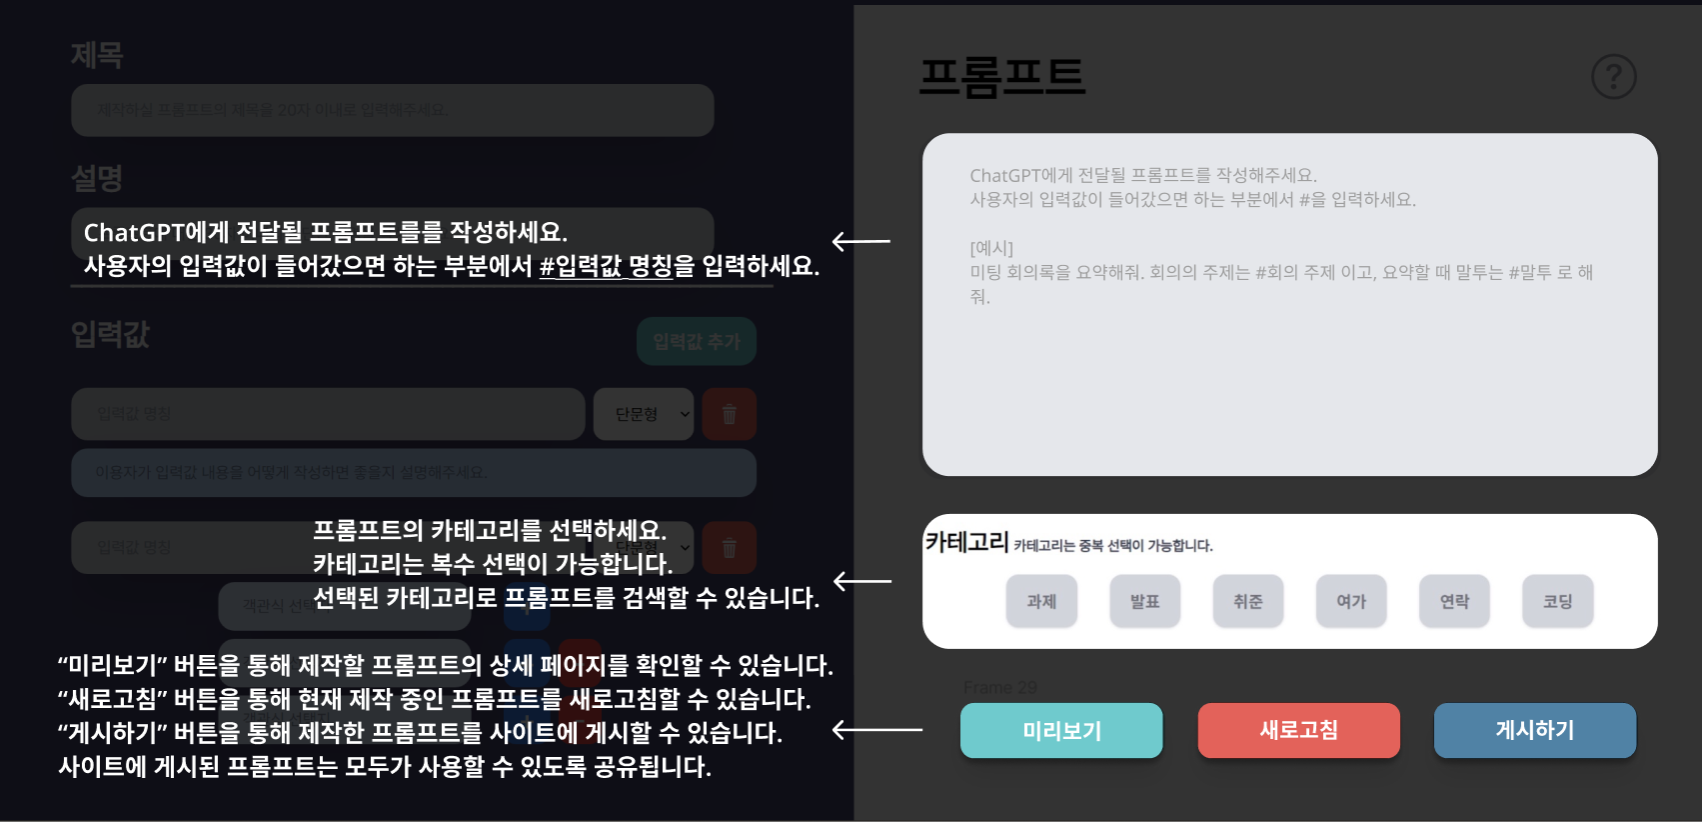
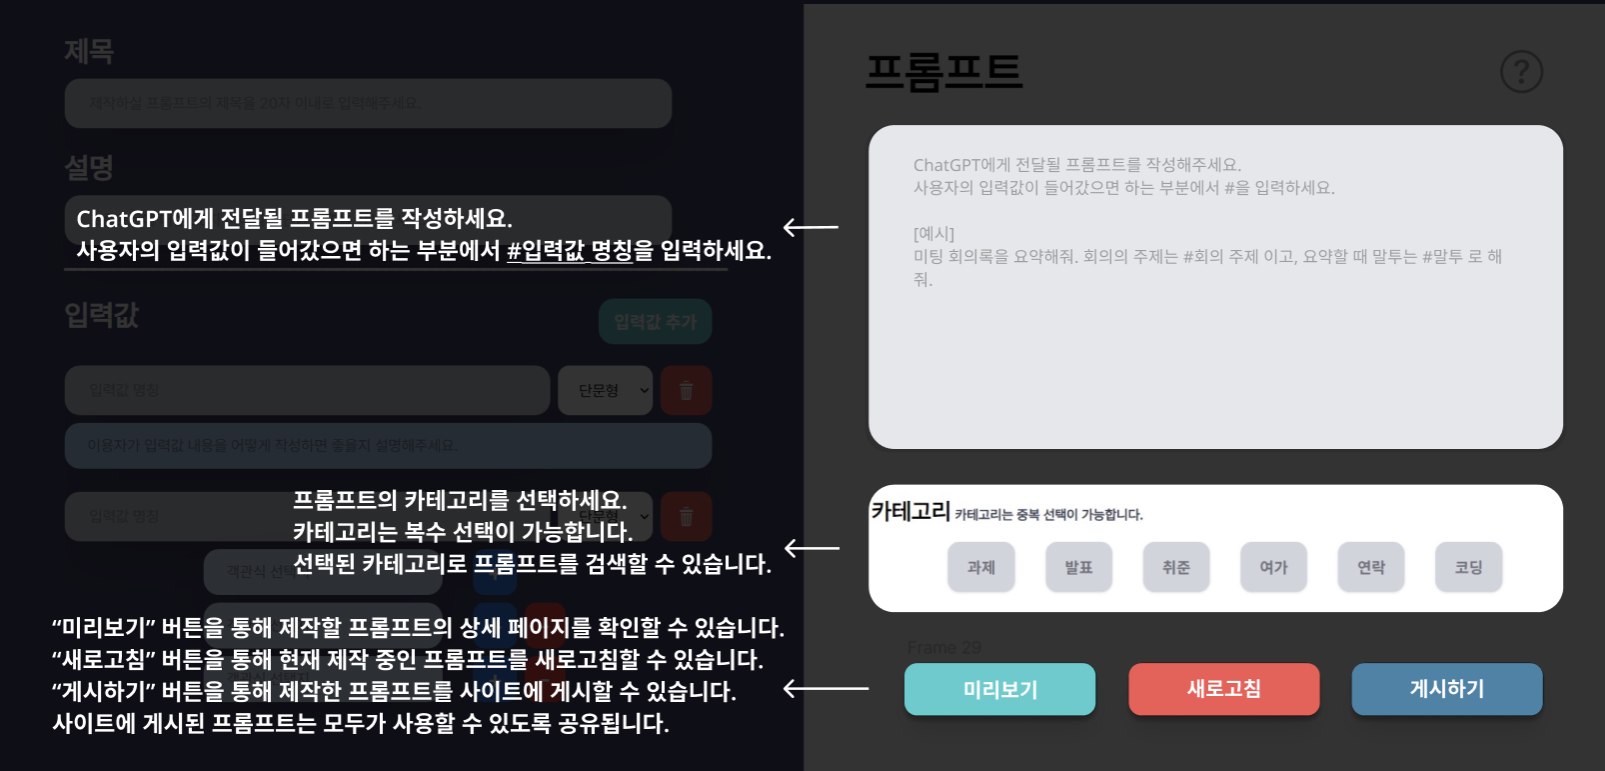
fix: overall css (3)

diff --git a/src/routes/PromptDetailPage.jsx b/src/routes/PromptDetailPage.jsx
@@ -168,14 +168,14 @@ const PromptDetailPage = () => {
       </div>
       {/*PromptResult 모달*/}
       {resultPage ? (
-        <div className="flex-grow flex flex-col justify-center items-center h-4/5 w-2/3 bg-gray-200 text-black mx-20 mt-6 rounded-3xl">
+        <div className="flex-grow flex flex-col justify-center items-center h-4/5 w-2/3 bg-gray-200 text-black mx-20 mt-8 rounded-3xl">
           {/*질문답변*/}
-          <div className="rounded-3xl bg-gray-200 px-8 pb-5 mr-8 mx-6 h-4/5 w-5/6 ">
+          <div className="rounded-3xl bg-gray-200 px-8 pb-3 mr-8 mx-6 h-4/5 w-5/6 ">
             {/*프롬프트 통한 질문*/}
             <div className="flex justify-center items-center mt-2 w-full h-1/3">
               <div className="flex justify-start w-full h-full">
                 <div className="flex bubble-a section-a items-center overflow-y-auto overflow-x-hidden w-3/4 h-1/3">
-                  <div className="inline-block align-middle whitespace-pre-line !my-auto p-4 pl-8">
+                  <div className="inline-block align-middle whitespace-pre-line font-notosanskr !my-auto p-4 pl-12">
                     {message}
                   </div>
                 </div>
@@ -190,8 +190,8 @@ const PromptDetailPage = () => {
             </div>
 
             {/*GPT 답변*/}
-            <div className="flex justify-center items-center mt-6 w-full h-1/2">
-              <div className="flex justify-start mt-2 w-full h-full">
+            <div className="flex justify-center items-center mt-5 w-full h-1/2">
+              <div className="flex justify-start w-full h-full">
                 <div className="flex flex-col justify-center items-center w-1/4 h-auto">
                   <img
                     id="gpt-logo"
@@ -202,7 +202,7 @@ const PromptDetailPage = () => {
                 </div>
                 <div className="bubble-b-after mt-28"></div>
                 <div className="flex bubble-b section-a items-center overflow-y-auto overflow-x-hidden w-full h-2/3 ">
-                  <div className="font-medium p-6 pl-8 inline-block align-middle whitespace-pre-line !my-auto">
+                  <div className="font-medium p-6 pl-12 font-notosanskr inline-block align-middle whitespace-pre-line !my-auto">
                     {answer}
                   </div>
                 </div>
@@ -217,7 +217,7 @@ const PromptDetailPage = () => {
               setResultPage(false);
               // console.log(resultPage);
             }}
-            className=" bg-gpt-green text-white font-bold hover:text-black rounded-3xl text-lg py-3.5 px-20 
+            className=" bg-gpt-green text-white font-bold hover:text-black rounded-3xl text-lg py-3.5 px-20 !mb-2
              shadow-xl"
           >
             나가기
@@ -252,7 +252,7 @@ const PromptDetailPage = () => {
                   // 객관식
                   return (
                     <div key={index}>
-                      <div className="button-f">{item.name}</div>
+                      <div className="button-f mb-1">{item.name}</div>
                       <Select
                         key={index}
                         options={options}

diff --git a/src/routes/HomePage.jsx b/src/routes/HomePage.jsx
@@ -200,11 +200,11 @@ const HomePage = () => {
         <HomeSideBar key={profile.id} user={profile} prompt={smallPromptList} />
       </div>
 
-      <div className="w-full bg-white text-black py-16 px-2 rounded-lg min-h-[700px] ">
-        <div className="flex flex-row justify-evenly space-x-8 pt-5 pb-7">
+      <div className="w-full bg-white text-black pt-8 pb-4 px-2 mx-2 rounded-lg min-h-[700px] ">
+        <div className="flex flex-row justify-center space-x-16 pt-14 pb-6">
           <Select
             options={categoryList}
-            className="w-5/12"
+            className="w-4/12 border-2 border-slate-300 rounded-md"
             onChange={handleCategoryChange}
             defaultValue={defaultValue}
           />
@@ -212,7 +212,7 @@ const HomePage = () => {
             type="text"
             placeholder="검색어를 입력해주세요"
             onChange={handleChange}
-            className="w-4/12 h-11 rounded-full border bg-slate-200 pl-5 mr-4"
+            className="w-5/12 h-10 rounded-full border bg-slate-200 pl-7 mr-6"
             value={searchValue}
           />
 
@@ -223,8 +223,8 @@ const HomePage = () => {
           </div> */}
         </div>
         <div className="flex flex-col items-center w-full h-3/4">
-          <div className="rounded-3xl border-solid border-gpt-blue border-2 m-5 px-5 pb-12 min-h-[500px] self-center">
-            <div className="flex flex-row min-w-full justify-between mt-5 p-5">
+          <div className="w-5/6 rounded-3xl border-solid border-gpt-blue border-2 m-5 px-5 pb-12 min-h-[500px] self-center">
+            <div className="flex flex-row w-8/10 justify-between mt-5 p-5">
               <div className="rounded-xl p-3.5 text-center font-bold text-xl text-white bg-gpt-blue px-14">
                 프롬프트 목록
               </div>

diff --git a/src/routes/InfoEditPage.jsx b/src/routes/InfoEditPage.jsx
@@ -60,10 +60,10 @@ const InfoEditPage = () => {
   return (
     <div className="flex flex-col items-center h-screen w-1/2">
       <br></br>
+
+      <h3 className="font-semibold text-5xl">비밀번호 변경</h3>
       <br></br>
-      <h3 className="font-semibold text-5xl">회원정보 수정</h3>
-      <br></br>
-      {/*일단은 사이즈 보려고 이미지로 넣어놨으! 근데 사람 이름 이니셜로 아이콘 만드는 법 못 찾으면 계속 이미지 써야할지도ㅠㅠ*/}
+
       <Avatar
         color={colors[formData.username.length % colors.length]}
         name={formData.username}
@@ -71,7 +71,6 @@ const InfoEditPage = () => {
         size={130}
       />
       <form className="form-a" onSubmit={handleChangeInfoSubmit}>
-        {/*이메일은 수정 안되게 바꿔야*/}
         <label className="label font-bold text-l" htmlFor="email">
           이메일
         </label>
@@ -96,7 +95,7 @@ const InfoEditPage = () => {
           readOnly
         />
         <label htmlFor="password" className="label font-bold text-l">
-          {/*API 등등 다시 다 고쳐야!*/}새 비밀번호
+          새 비밀번호
         </label>
         <input
           required
@@ -137,14 +136,14 @@ const InfoEditPage = () => {
         <div className="flex flex-row items-center space-x-14">
           <button
             type="submit"
-            className="button-a-4 mt-7"
+            className="button-a-4 !mt-2 !px-4"
             onClick={handleChangeInfoSubmit}
           >
             저장하기
           </button>
           <button
             type="button"
-            className="button-a-4 mt-7"
+            className="button-a-4 !mt-2 !px-4"
             onClick={navigateMypage}
           >
             취소하기

diff --git a/src/components/Modal/index.jsx b/src/components/Modal/index.jsx
@@ -98,7 +98,7 @@ export const PromptMakeModal = ({ modalOpen, setModalOpen, prompt, user }) => {
               <div className="flex justify-center items-center mt-2 w-full h-1/3">
                 <div className="flex justify-start w-full h-full">
                   <div className="flex bubble-a section-a items-center overflow-y-auto overflow-x-hidden w-3/4 h-1/3">
-                    <div className="inline-block align-middle whitespace-pre-line !my-auto p-4 pl-8">
+                    <div className="inline-block align-middle whitespace-pre-line !my-auto p-4 pl-12 font-notosanskr">
                       {message}
                     </div>
                   </div>
@@ -125,7 +125,7 @@ export const PromptMakeModal = ({ modalOpen, setModalOpen, prompt, user }) => {
                   </div>
                   <div className="bubble-b-after mt-28"></div>
                   <div className="flex bubble-b section-a items-center overflow-y-auto overflow-x-hidden w-full">
-                    <div className="font-medium p-6 pl-8 inline-block align-middle whitespace-pre-line !my-auto">
+                    <div className="font-medium p-6 pl-12 inline-block font-notosanskr align-middle whitespace-pre-line !my-auto">
                       {answer}
                     </div>
                   </div>
@@ -178,7 +178,7 @@ export const PromptMakeModal = ({ modalOpen, setModalOpen, prompt, user }) => {
                     // 객관식
                     return (
                       <div key={index}>
-                        <div className="button-f">{item.name}</div>
+                        <div className="button-f mb-1">{item.name}</div>
                         <Select
                           key={index}
                           options={options}

diff --git a/src/components/Header/index.jsx b/src/components/Header/index.jsx
@@ -29,25 +29,29 @@ const Header = () => {
       </div>
       <div className="flex flex-row space-x-5 m-5 mx-8">
         {/* {isUser ? ( */}
-        {/* {isLoggedIn ? ( */}
-        <>
-          <Link to="/mypage" className="text-lg font-semibold mr-2">
-            마이페이지
-          </Link>
-          <Link to="/" onClick={handleLogout} className="text-lg font-semibold">
-            로그아웃
-          </Link>
-        </>
-        {/*  ) : ( */}
-        <>
-          <Link to="/signup" className="text-lg font-semibold mr-2">
-            회원가입
-          </Link>
-          <Link to="/signin" className="text-lg font-semibold">
-            로그인
-          </Link>
-        </>
-        {/*  )} */}
+        {isLoggedIn ? (
+          <>
+            <Link to="/mypage" className="text-lg font-semibold mr-2">
+              마이페이지
+            </Link>
+            <Link
+              to="/"
+              onClick={handleLogout}
+              className="text-lg font-semibold"
+            >
+              로그아웃
+            </Link>
+          </>
+        ) : (
+          <>
+            <Link to="/signup" className="text-lg font-semibold mr-2">
+              회원가입
+            </Link>
+            <Link to="/signin" className="text-lg font-semibold">
+              로그인
+            </Link>
+          </>
+        )}
       </div>
     </div>
   );

diff --git a/src/components/Prompts/index.jsx b/src/components/Prompts/index.jsx
@@ -16,7 +16,9 @@ export const SmallPrompt = ({ rank, prompt }) => {
   console.log(prompt);
   return (
     <div className="flex flex-row w-full rounded-xl bg-white border-gray-300 shadow py-3 px-2 m-1">
-      <div className="m-1 pt-2 pr-1 font-extrabold text-gpt-indigo">{rank}</div>
+      <div className="m-1 ml-2 pt-2 pr-1 font-extrabold text-gpt-indigo">
+        {rank}
+      </div>
       <div className="w-full h-full flex flex-col pr-2">
         <div className="font-bold font-notosanskr  text-gpt-blue px-2">
           {prompt.title}
@@ -72,9 +74,13 @@ export const MidPrompt = ({ prompt }) => {
   };
 
   return (
-    <div className="flex flex-col w-80 h-64 space-y-8 p-5 shadow m-3 mx-6 rounded-3xl border-gpt-blue border-2 bg-white">
-      <div className="font-bold text-lg h-1/6">{prompt.title}</div>
-      <div className="font-medium h-1/3 mb-2">{prompt.description}</div>
+    <div className="flex flex-col w-80 h-64 space-y-8 p-6 shadow-lg m-3 mx-6 rounded-3xl border-gpt-blue border-2 bg-slate-100">
+      <div className="font-bold text-xl h-1/6 font-notosanskr">
+        {prompt.title}
+      </div>
+      <div className="font-medium h-1/3 mb-2 font-notosanskr">
+        {prompt.description}
+      </div>
       <div className="flex flex-row justify-between">
         <div className="flex flex-row space-x-2">
           <div className="flex flex-row font-bold">

diff --git a/src/routes/PromptMakePage.jsx b/src/routes/PromptMakePage.jsx
@@ -190,7 +190,7 @@ const PromptMakePage = () => {
       {helpOpen && !nextHelp && (
         <>
           <button
-            className="closeButton !right-12 !mt-32 z-20"
+            className="closeButton !right-[63px] !mt-[146px] z-20"
             onClick={closeHelpModal}
           >
             <MdOutlineCancel size={50} />
@@ -203,7 +203,7 @@ const PromptMakePage = () => {
           </button>
           <img
             src={firstHelpModal}
-            className="modalContaine absolute left-0 top-110 z-10 w-[1600px]"
+            className="absolute left-0 top-110 z-10 w-[1800px]"
           />
         </>
       )}
@@ -211,7 +211,7 @@ const PromptMakePage = () => {
       {helpOpen && nextHelp && (
         <>
           <button
-            className="closeButton !right-12 !mt-32 z-20"
+            className="closeButton !right-[63px] !mt-[150px] z-20"
             onClick={closeHelpModal}
           >
             <MdOutlineCancel size={50} />
@@ -224,7 +224,7 @@ const PromptMakePage = () => {
           </button>
           <img
             src={secondHelpModal}
-            className="modalContaine absolute left-0 top-110 z-10 w-[1600px]"
+            className="absolute left-0 top-[110px] z-10 w-[1800px]"
           />
         </>
       )}

diff --git a/src/routes/MyPage.jsx b/src/routes/MyPage.jsx
@@ -67,7 +67,7 @@ const MyPage = () => {
   return (
     <div className="h-screen w-screen">
       <div className="flex flex-col w-full mt-8">
-        <div className="h-48 flex flex-row bg-white rounded-3xl mb-5 mx-20 py-8 px-14 text-black align-middle justify-between">
+        <div className="h-48 flex flex-row bg-white rounded-3xl mb-5 mx-20 py-8 px-16 text-black align-middle justify-between">
           <div className="flex flex-row">
             <Avatar
               color={colors[userName.length % colors.length]}
@@ -75,7 +75,7 @@ const MyPage = () => {
               className="rounded-full mb-7 font-bold text-2xl"
               size={130}
             />
-            <div className="flex flex-col justify-between mx-12">
+            <div className="flex flex-col justify-between pl-6 mx-12">
               <div className="text-3xl font-semibold mt-1">
                 {userName} 님 반갑습니다!
               </div>

diff --git a/src/routes/InfoCheck.jsx b/src/routes/InfoCheck.jsx
@@ -43,8 +43,11 @@ const InfoCheck = () => {
                 onChange={handlePasswordChange}
               />
               <div className="flex flex-col items-center w=1/2">
-                <button type="submit" className="items-center button-b mt-7">
-                  회원정보 수정
+                <button
+                  type="submit"
+                  className="items-center button-b !px-8 !py-3 mt-7"
+                >
+                  확인
                 </button>
               </div>
             </form>

diff --git a/src/components/SideBar/index.jsx b/src/components/SideBar/index.jsx
@@ -28,7 +28,7 @@ export const HomeSideBar = ({ user, prompt }) => {
 
   return (
     <div className="flex flex-col h-screen justify-items-center">
-      <div className="flex flex-col space-y-4 align-middle items-center m-4">
+      <div className="flex flex-col space-y-4 mt-6 align-middle items-center m-4">
         <Link
           to="/promptmake"
           className="button-b w-11/12 flex flex-col items-center"

diff --git a/src/index.css b/src/index.css
@@ -287,7 +287,7 @@ body {
 
 /*사이드바 댓글창 스크롤바 디자인*/
 .section-c::-webkit-scrollbar {
-  width: 6px;
+  width: 5.5px;
 }
 .section-c::-webkit-scrollbar-track {
   background-color: white;
@@ -295,7 +295,7 @@ body {
   border-radius: 20px 20px 20px 20px;
 }
 .section-c::-webkit-scrollbar-thumb {
-  background: #5082a5;
+  background: #73a8e9;
   border-radius: 20px 20px 20px 20px;
 }
 
